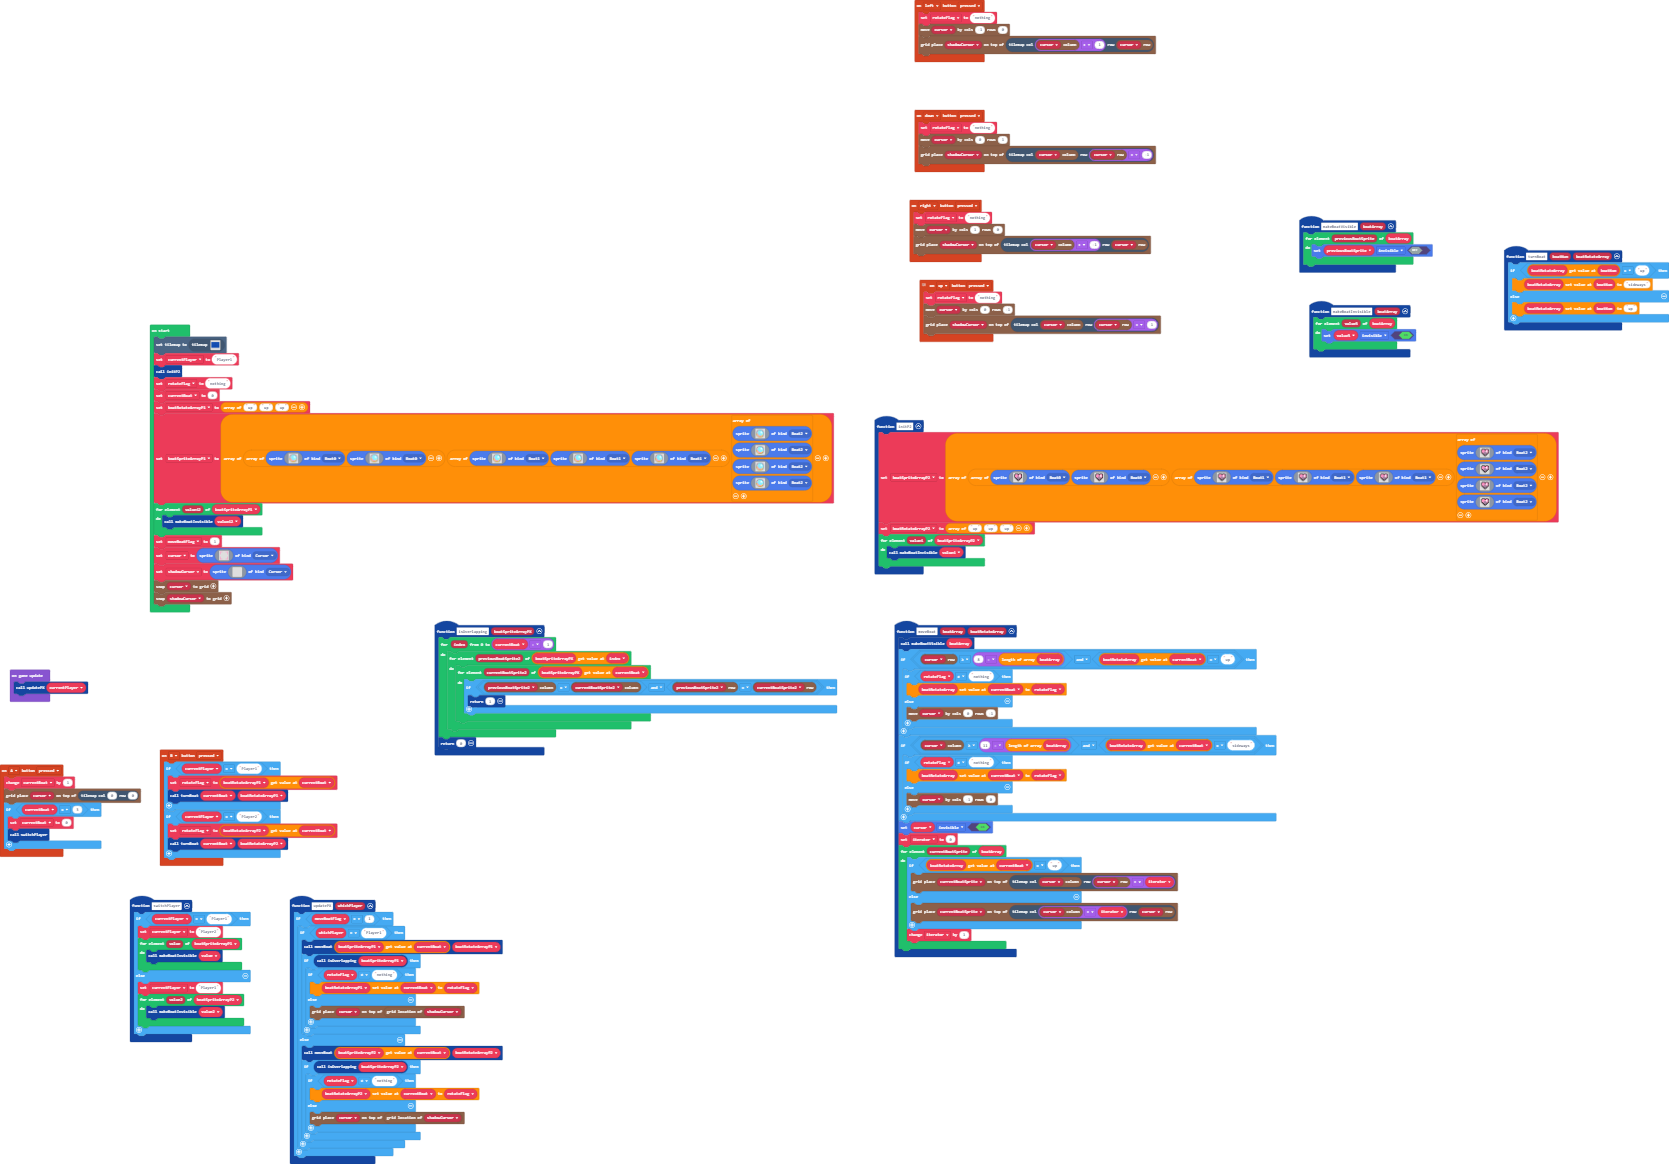
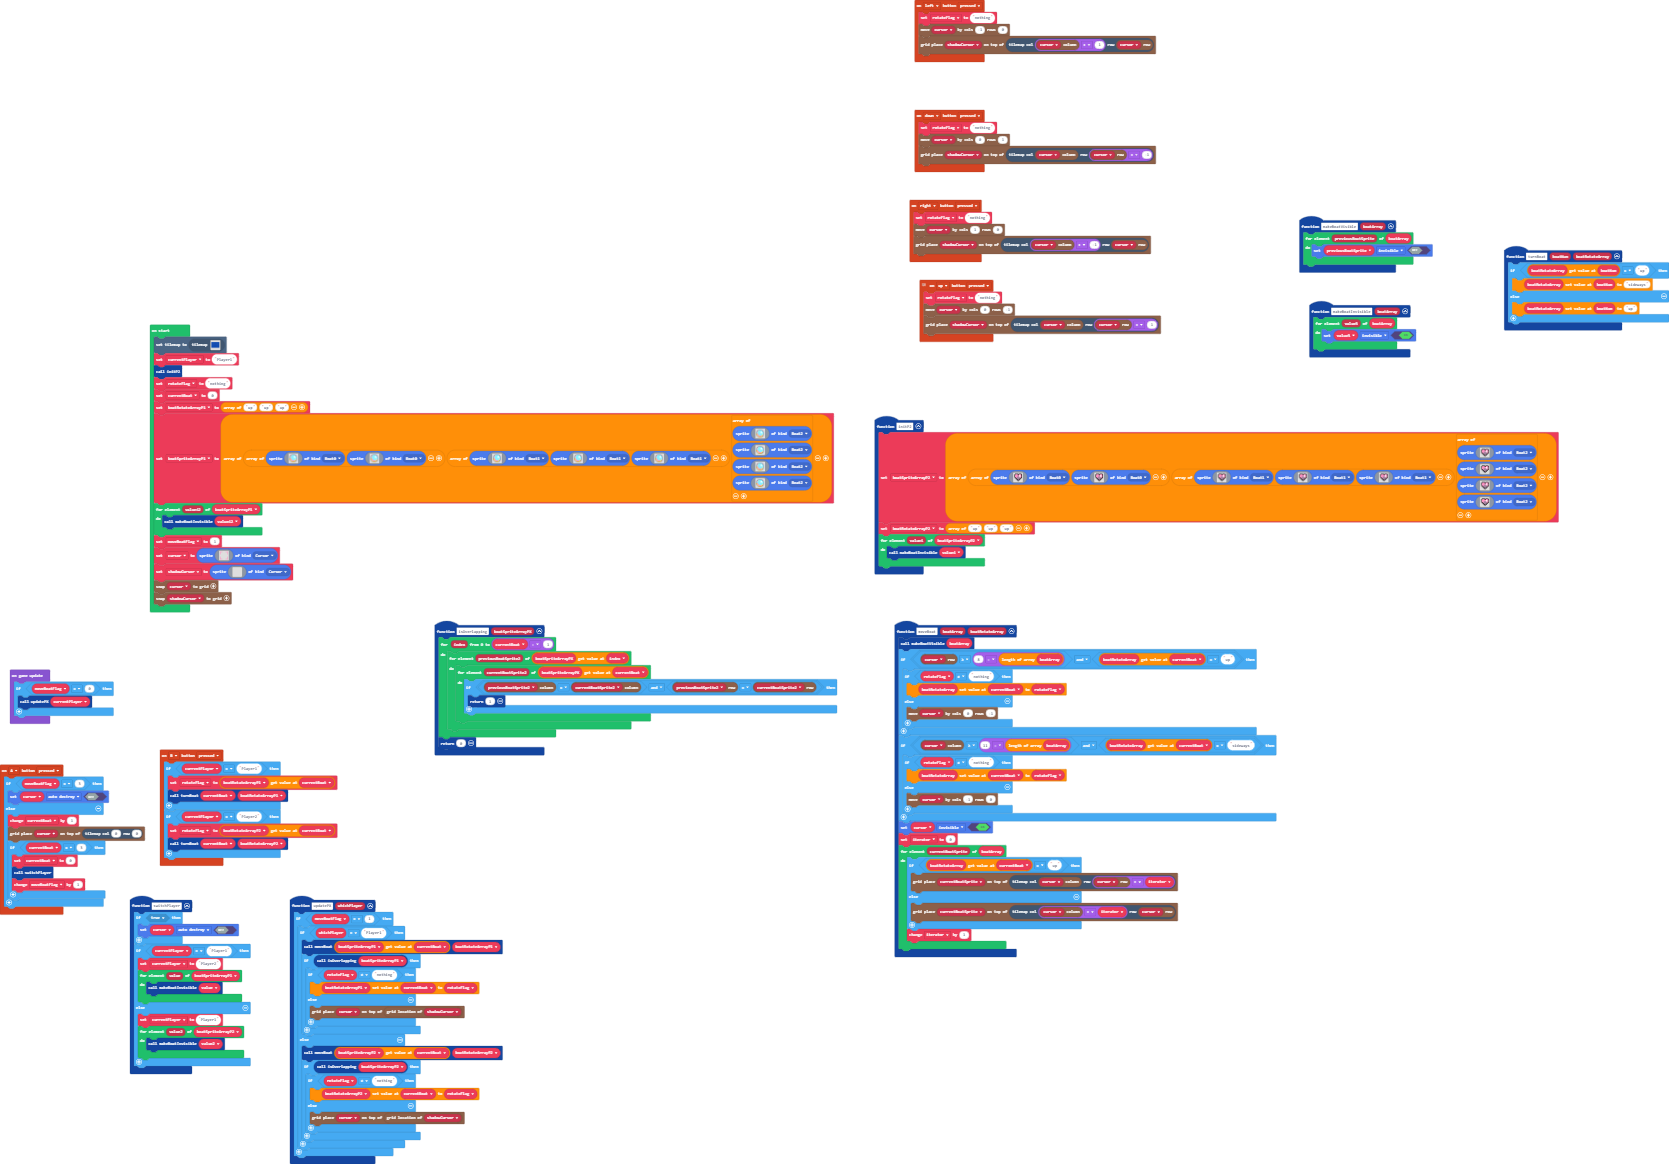
cursor turn on

Changed region(s): [[0.0, 0.6495, 0.1558, 0.9278], [0.0, 0.5876, 0.0935, 0.6186]]

diff --git a/main.ts b/main.ts
@@ -49,11 +49,16 @@ function makeBoatVisible (boatArray: Sprite[]) {
     }
 }
 controller.A.onEvent(ControllerButtonEvent.Pressed, function () {
-    currentBoat += 1
-    grid.place(cursor, tiles.getTileLocation(0, 0))
-    if (currentBoat == 3) {
-        currentBoat = 0
-        switchPlayer()
+    if (moveBoatFlag == 3) {
+        cursor.setFlag(SpriteFlag.AutoDestroy, false)
+    } else {
+        currentBoat += 1
+        grid.place(cursor, tiles.getTileLocation(0, 0))
+        if (currentBoat == 3) {
+            currentBoat = 0
+            switchPlayer()
+            moveBoatFlag += 1
+        }
     }
 })
 controller.left.onEvent(ControllerButtonEvent.Pressed, function () {
@@ -62,6 +67,9 @@ controller.left.onEvent(ControllerButtonEvent.Pressed, function () {
     grid.place(shadowCursor, tiles.getTileLocation(grid.spriteCol(cursor) + 1, grid.spriteRow(cursor)))
 })
 function switchPlayer () {
+    if (true) {
+        cursor.setFlag(SpriteFlag.AutoDestroy, false)
+    }
     if (currentPlayer == "Player1") {
         currentPlayer = "Player2"
         for (let value of boatSpriteArrayP1) {
@@ -527,5 +535,7 @@ shadowCursor = sprites.create(img`
 grid.snap(cursor)
 grid.snap(shadowCursor)
 game.onUpdate(function () {
-    updatePX(currentPlayer)
+    if (moveBoatFlag == 0) {
+        updatePX(currentPlayer)
+    }
 })
